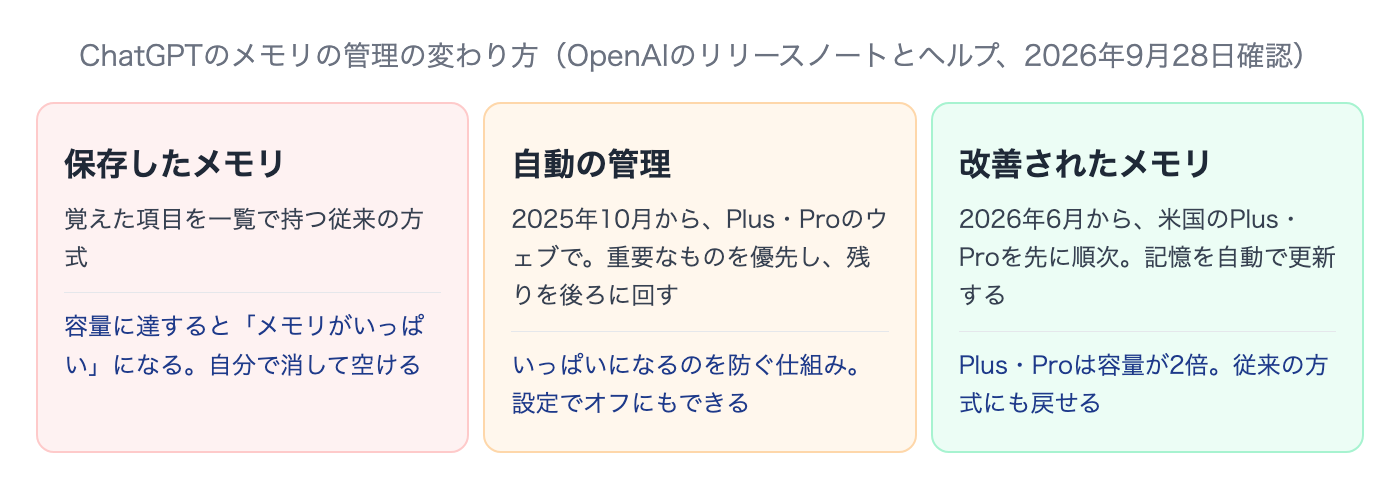
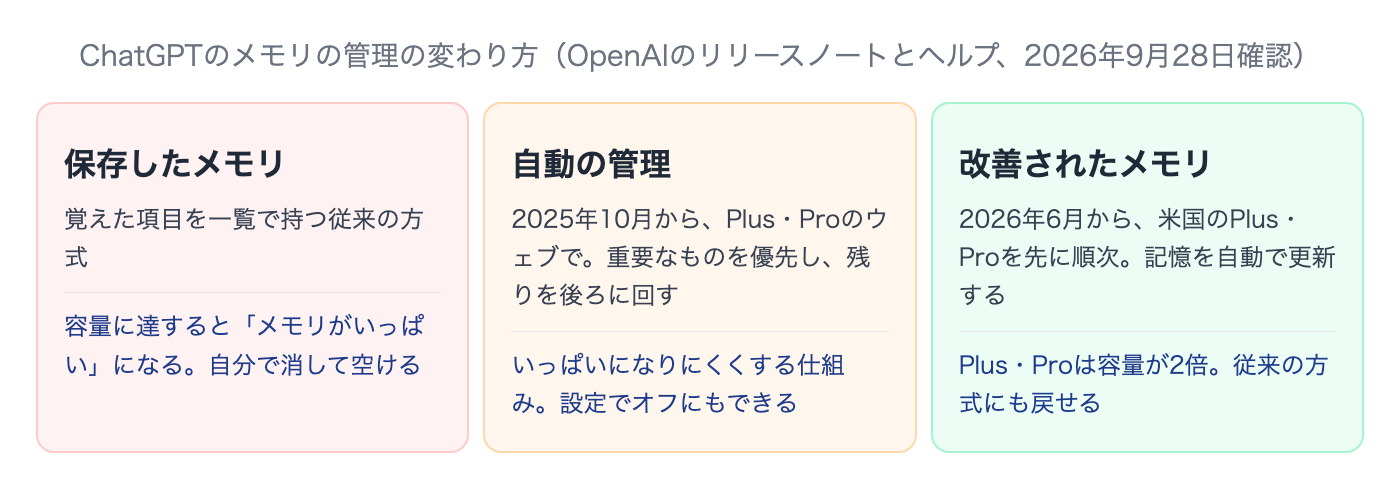
添削の2点と軽微3件を反映

Changed region(s): [[0.3686, 0.8008, 0.5836, 0.8624], [0.4607, 0.7084, 0.6143, 0.77]]

diff --git a/media/posts/chatgpt-memory-full.md b/media/posts/chatgpt-memory-full.md
@@ -10,14 +10,14 @@ cover_sub: 仕組みの変化と空け方
 
 ChatGPTのメモリは、会話の中で伝えた好みや前提を覚えておき、次の回答に使う機能です。覚えた項目が増えて容量に達した状態が、いわゆる「メモリがいっぱい」です。
 
-**OpenAIはこの仕組みを2025年10月と2026年6月の2回変えています。**2025年10月15日のリリースノートでは、Plus・Proのウェブ版で、保存したメモリを自動で管理して「memory full」の状態を避ける機能が始まりました。2026年6月4日には「改善されたメモリ」が米国のPlus・Proから配られ始め、Plus・Proは覚えられる量が2倍になっています。検索の上位には変化の前の「不要なメモリを手で消す」だけの記事が今も多く並んでいます。
+**OpenAIはこの仕組みを2025年10月と2026年6月の2回変えています。**2025年10月15日のリリースノートでは、Plus・Proのウェブ版で、保存したメモリを自動で管理して「memory full」の状態を避ける機能が始まりました。2026年6月4日には「改善されたメモリ」が米国のPlus・Proから配られ始め、改善されたメモリが届いたPlus・Proでは、メモリの容量が2倍になるとされています。検索の上位には変化の前の「不要なメモリを手で消す」だけの記事が今も多く並んでいます。
 
 この記事ではOpenAIのヘルプ「[ChatGPT のメモリ](https://help.openai.com/ja-jp/articles/8590148-memory-faq)」とリリースノートをもとに、いっぱいになる仕組み、空け方、消しても残るものを整理します。
 
 :::takeaways
 - 「メモリがいっぱい」は、覚えた項目を一覧で持つ**保存したメモリが容量に達した状態**
-- 2025年10月から、Plus・Proのウェブ版では**重要なメモリを優先し、残りを後ろに回す自動の管理**が始まり、いっぱいになるのを防いでいる
-- 2026年6月からは**改善されたメモリ**が順次配られ、Plus・Proは容量が2倍。従来の方式にも戻せる
+- 2025年10月から、Plus・Proのウェブ版では**重要なメモリを優先し、残りを後ろに回す自動の管理**が始まり、いっぱいになりにくくしている
+- 2026年6月からは**改善されたメモリ**が順次配られ、届いたPlus・Proは容量が2倍。従来の方式にも戻せる
 - 手で空けるなら**設定の「パーソナライズ」の「メモリ」**から、要らない項目を消す
 - **チャットを消しても、そこから保存されたメモリは自動では消えない**。両方を消す
 :::
@@ -32,7 +32,7 @@ ChatGPTに「覚えておいて」と頼んだことや、ChatGPTが役に立つ
 
 いっぱいになるかどうかは、どの方式のメモリを使っているかで変わります。2026年9月時点で、OpenAIの説明に出てくる方式は3つです。
 
-<figure class="post-figure"><img src="/media/images/chatgpt-memory-full/00_fig_types.png" alt="ChatGPTのメモリの管理の変わり方を3つ並べた図。保存したメモリは覚えた項目を一覧で持つ従来の方式で、容量に達するとメモリがいっぱいになり、自分で消して空ける。自動の管理は2025年10月から、Plus・Proのウェブで、重要なものを優先し残りを後ろに回す。いっぱいになるのを防ぐ仕組みで、設定でオフにもできる。改善されたメモリは2026年6月から、米国のPlus・Proを先に順次配られ、記憶を自動で更新する。Plus・Proは容量が2倍で、従来の方式にも戻せる" loading="lazy"><figcaption>メモリの管理の変わり方（OpenAIのリリースノートとヘルプ、2026年9月28日確認）</figcaption></figure>
+<figure class="post-figure"><img src="/media/images/chatgpt-memory-full/00_fig_types.png" alt="ChatGPTのメモリの管理の変わり方を3つ並べた図。保存したメモリは覚えた項目を一覧で持つ従来の方式で、容量に達するとメモリがいっぱいになり、自分で消して空ける。自動の管理は2025年10月から、Plus・Proのウェブで、重要なものを優先し残りを後ろに回す。いっぱいになりにくくする仕組みで、設定でオフにもできる。改善されたメモリは2026年6月から、米国のPlus・Proを先に順次配られ、記憶を自動で更新する。Plus・Proは容量が2倍で、従来の方式にも戻せる" loading="lazy"><figcaption>メモリの管理の変わり方（OpenAIのリリースノートとヘルプ、2026年9月28日確認）</figcaption></figure>
 
 自動の管理がオフの場合や、まだ配られていない場合は、従来どおり自分で消して空けることになります。ヘルプにも、メモリの機能やコントロールはプラン・地域・プラットフォーム・ワークスペースの設定で違い、説明どおりの設定が見えない場合はまだ使えない可能性があると書かれています。
 
@@ -52,7 +52,7 @@ ChatGPTに「覚えておいて」と頼んだことや、ChatGPTが役に立つ
 
 使っている方式と画面に出ているコントロールによって、空け方が変わります。
 
-| 画面に出ているもの | 空け方 |
+| 画面に出ているもの | 空け方・避け方 |
 |---|---|
 | 保存したメモリの一覧 | 要らない項目を消す。ChatGPTに「〇〇を忘れて」と頼んでもよい |
 | 自動の管理の切り替え | オンにする。重要なものが優先され、残りが後ろに回る |
@@ -60,9 +60,9 @@ ChatGPTに「覚えておいて」と頼んだことや、ChatGPTが役に立つ
 
 ### 保存したメモリを消す
 
-保存したメモリはChatGPTに忘れるよう頼むか、メモリの設定から削除できるとヘルプに書かれています。**消す候補は古い仕事の前提や一度きりの用事のメモです。**2025年10月のリリースノートによると、自動の管理が使える環境では保存したメモリを検索でき、新しい順・古い順に並べ替えられるので、消す候補を探しやすくなりました。
+保存したメモリはChatGPTに忘れるよう頼むか、メモリの設定から削除できるとヘルプに書かれています。**保存したメモリを消すと今後の回答には使われなくなりますが、過去の会話の中の言及は消えません。**2025年10月のリリースノートによると、自動の管理が使える環境では保存したメモリを検索でき、新しい順・古い順に並べ替えられるので、消す候補を探しやすくなりました。
 
-どのメモリを優先するかを自分で選べることや、保存したメモリの以前の版を見て戻せることも、同じリリースノートに書かれています。**消すのが不安なら、優先度を下げるだけにして様子を見てください。**
+どのメモリを優先するかを自分で選べることや、保存したメモリの以前の版を見て戻せることも、同じリリースノートに書かれています。**消すのが不安なら、優先度を下げれば消さずに後ろに回せます。**
 
 ### 自動の管理を使う
 
@@ -96,7 +96,7 @@ ChatGPTに「覚えておいて」と頼んだことや、ChatGPTが役に立つ
 
 ### ChatGPTのメモリがいっぱいになるとどうなりますか？
 
-保存したメモリが容量に達した状態です。要らない項目を消すか、使える環境なら自動の管理や改善されたメモリを使ってください。
+OpenAIのヘルプとリリースノートには、いっぱいになったあとの動きは書かれていません（2026年9月28日に確認した範囲）。要らない項目を消して空けるか、使える環境なら自動の管理や改善されたメモリを使ってください。
 
 ### ChatGPTのメモリの上限は何件ですか？
 
